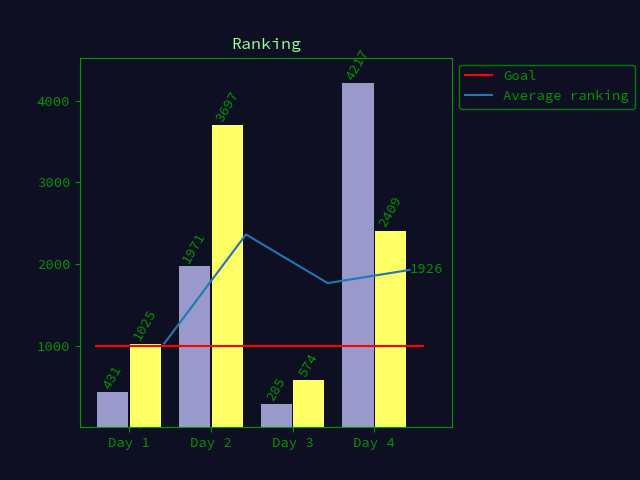
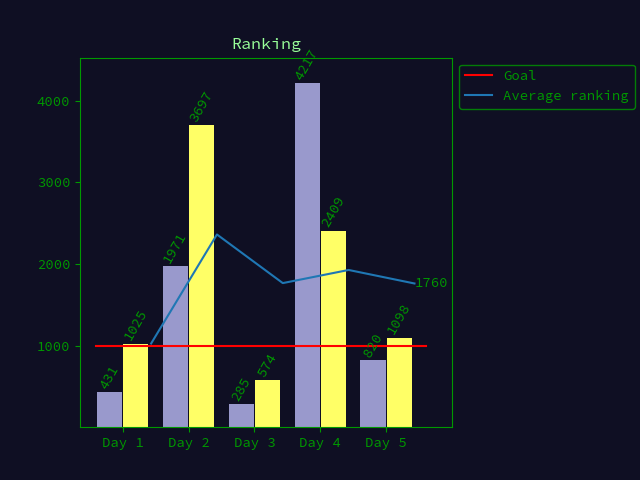
Solution: Day 5
Felt that I should have realised that a stable sort would do the trick,
didn't realize it until way into part 2, wasted time writing a botched
"insertion algoritm". Oh well...

Changed region(s): [[0.1562, 0.125, 0.7188, 0.9375]]

diff --git a/day5.py b/day5.py
@@ -1,0 +1,48 @@
+from collections import defaultdict
+def part1(src):
+    ordering, order = src.split('\n\n')
+
+    rules = defaultdict(set)
+
+    for r in ordering.splitlines():
+        f,s = map(int, r.split("|"))
+        rules[s].add(f)
+
+    s = 0
+    for os in order.splitlines():
+        v = set()
+        os = list(map(int, os.split(",")))
+        osl = set(os)
+        for o in os:
+            if (j := rules[o] & osl):
+                if not (j <= v):
+                    break
+            v.add(o)
+        else:
+            s += os[len(os) // 2]
+
+    return s
+
+from functools import cmp_to_key
+def part2(src):
+    ordering, order = src.split('\n\n')
+
+    rules = defaultdict(set)
+
+    for r in ordering.splitlines():
+        f,s = map(int, r.split("|"))
+        rules[s].add(f)
+
+    key = cmp_to_key(lambda a, b: -1 if a in rules[b] else 1 if b in rules[a] else 0)
+
+    s = 0
+    for os in order.splitlines():
+        os = list(map(int, os.split(",")))
+        oss = sorted(os, key=key)
+        
+        if oss != os:
+            s+= oss[len(oss) // 2]
+
+    return s
+
+

diff --git a/README.md b/README.md
@@ -19,17 +19,19 @@ Sets up a correct `venv` and installs all required packages. Will skip the setup
 ## Times
 
 ```
-imported: 4 solution(s) in 569 μs
+imported: 5 solution(s) in 663 μs
 running: all with benchmark
-day1.part1: ~ (646 μs 15462 samples)
-day1.part2: ~ (19 ms 537 samples)
-day2.part1: ~ (1227 μs 8146 samples)
-day2.part2: ~ (5130 μs 1950 samples)
-day3.part1: ~ (285 μs 35013 samples)
-day3.part2: ~ (388 μs 25730 samples)
-day4.part1: ~ (15 ms 673 samples)
-day4.part2: ~ (19 ms 530 samples)
-total: 60 ms
+day1.part1: ~ (645 μs 15491 samples)
+day1.part2: ~ (19 ms 535 samples)
+day2.part1: ~ (1209 μs 8267 samples)
+day2.part2: ~ (4902 μs 2040 samples)
+day3.part1: ~ (285 μs 35011 samples)
+day3.part2: ~ (387 μs 25840 samples)
+day4.part1: ~ (15 ms 670 samples)
+day4.part2: ~ (19 ms 537 samples)
+day5.part1: ~ (2110 μs 4738 samples)
+day5.part2: ~ (1589 μs 6294 samples)
+total: 63 ms
 ```
 
 ## Score
@@ -37,6 +39,7 @@ total: 60 ms
 ```{scores}
       -------Part 1--------   -------Part 2--------
 Day       Time  Rank  Score       Time  Rank  Score
+  5   00:07:53   820      0   00:16:40  1098      0
   4   00:20:38  4217      0   00:24:06  2409      0
   3   00:02:15   285      0   00:07:34   574      0
   2   00:08:38  1971      0   00:24:36  3697      0
